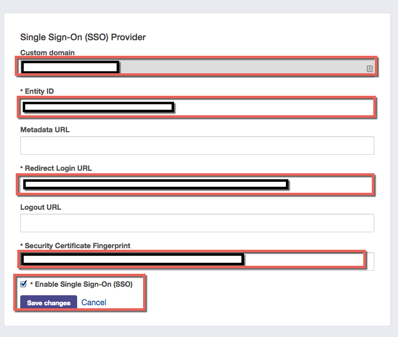
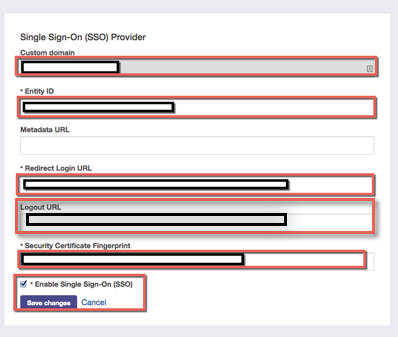
edits to the SAML instructions for ACL

Changed region(s): [[0.0302, 0.5638, 0.9648, 0.7122]]

diff --git a/SAML_Docs/How-to-Configure-SAML-2.0-for-ACL.html b/SAML_Docs/How-to-Configure-SAML-2.0-for-ACL.html
@@ -79,17 +79,20 @@ try{Typekit.load();}catch(e){}
 <li>In the <strong>Single Sign-On (SSO) Provider</strong> page, enter the following (see screen shot at end of step for reference):
 
 <ul>
-<li><strong>Custom domain</strong>: Copy and paste this value from ACL GRC Single Sign-On (SSO) Provider page into the Custom Domain field under the ADVANCED SIGN-ON SETTINGS 
+<li><strong>Custom domain</strong>: Copy and paste the value from the ACL GRC Single Sign-On (SSO) Provider page into the <strong>Custom Domain</strong> field under the <strong>ADVANCED SIGN-ON SETTINGS</strong> 
 from the Sign On tab of the ACL app in Okta (shown here):
 <p><img src="images/apps/ACL4.png" alt=“ACL4.png" /></p>
 
 </li>
 <li><strong>Entity ID</strong>: Copy and paste the following into this field:
-<p><kbd id="externalKey">Sign in to the Okta Admin&nbsp;app to generate this variable.</kbd></p>
+<p><kbd id="issuer">Sign into the Okta Admin Dashboard to generate this variable.</kbd></p>
 
 </li>
 <li><strong>Redirect Login URL</strong>: Copy and paste the following into this field:
 <p><kbd id="signOnUrl"> Sign in to the Okta Admin&nbsp;app to generate this variable.</kbd></p>
+</li>
+<li><strong>Logout URL</strong>: Copy and paste the following into this field:
+<p><kbd id="signOutUrl">Sign into the Okta Admin Dashboard to generate this variable.</kbd></p>
 </li>
 <li><strong>Security Certificate Fingerprint</strong>: Copy and paste the following into this field:
 <p><kbd id="formattedFingerprint"> Sign in to the Okta Admin&nbsp;app to generate this variable.</kbd></p>
